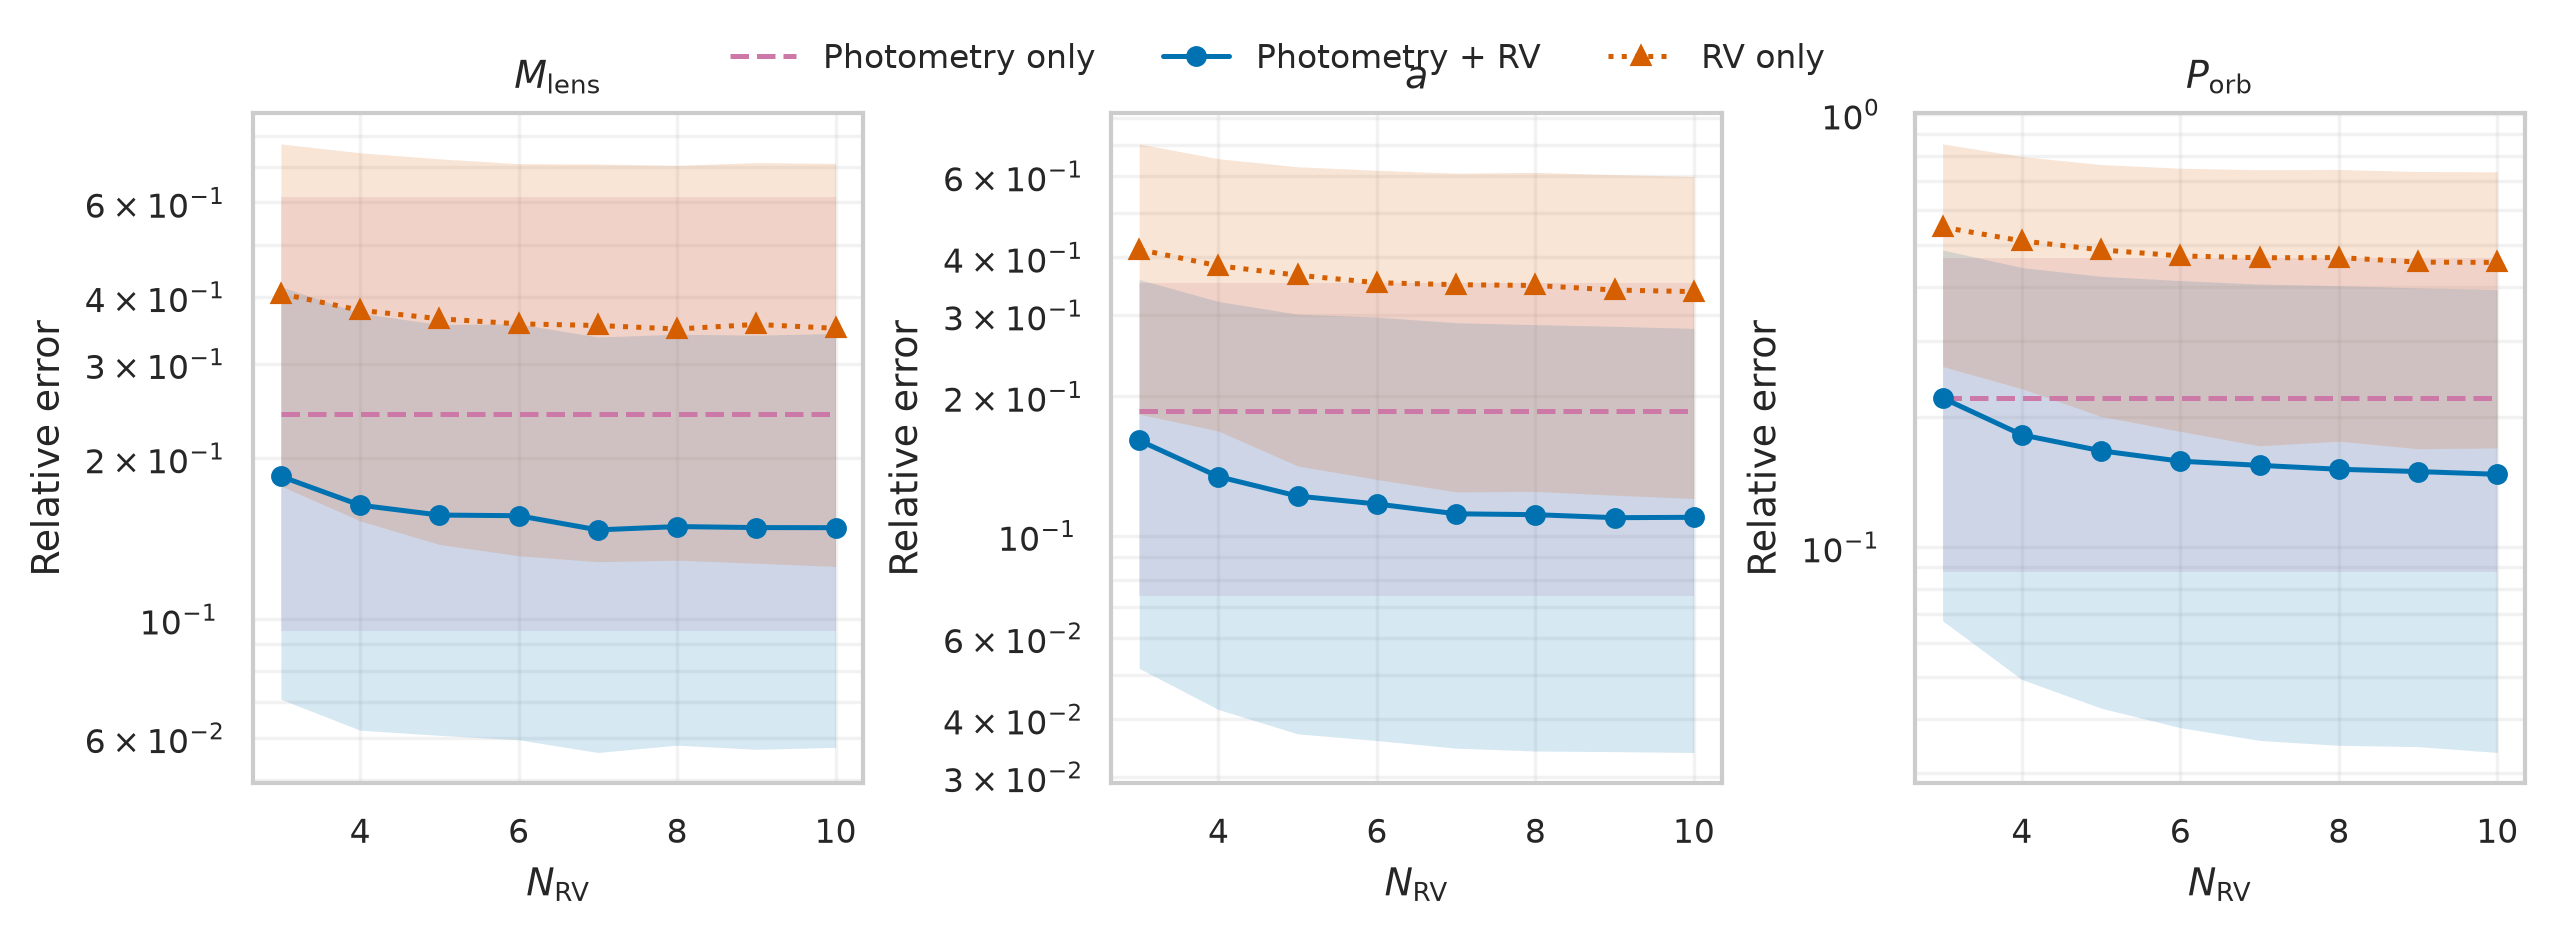
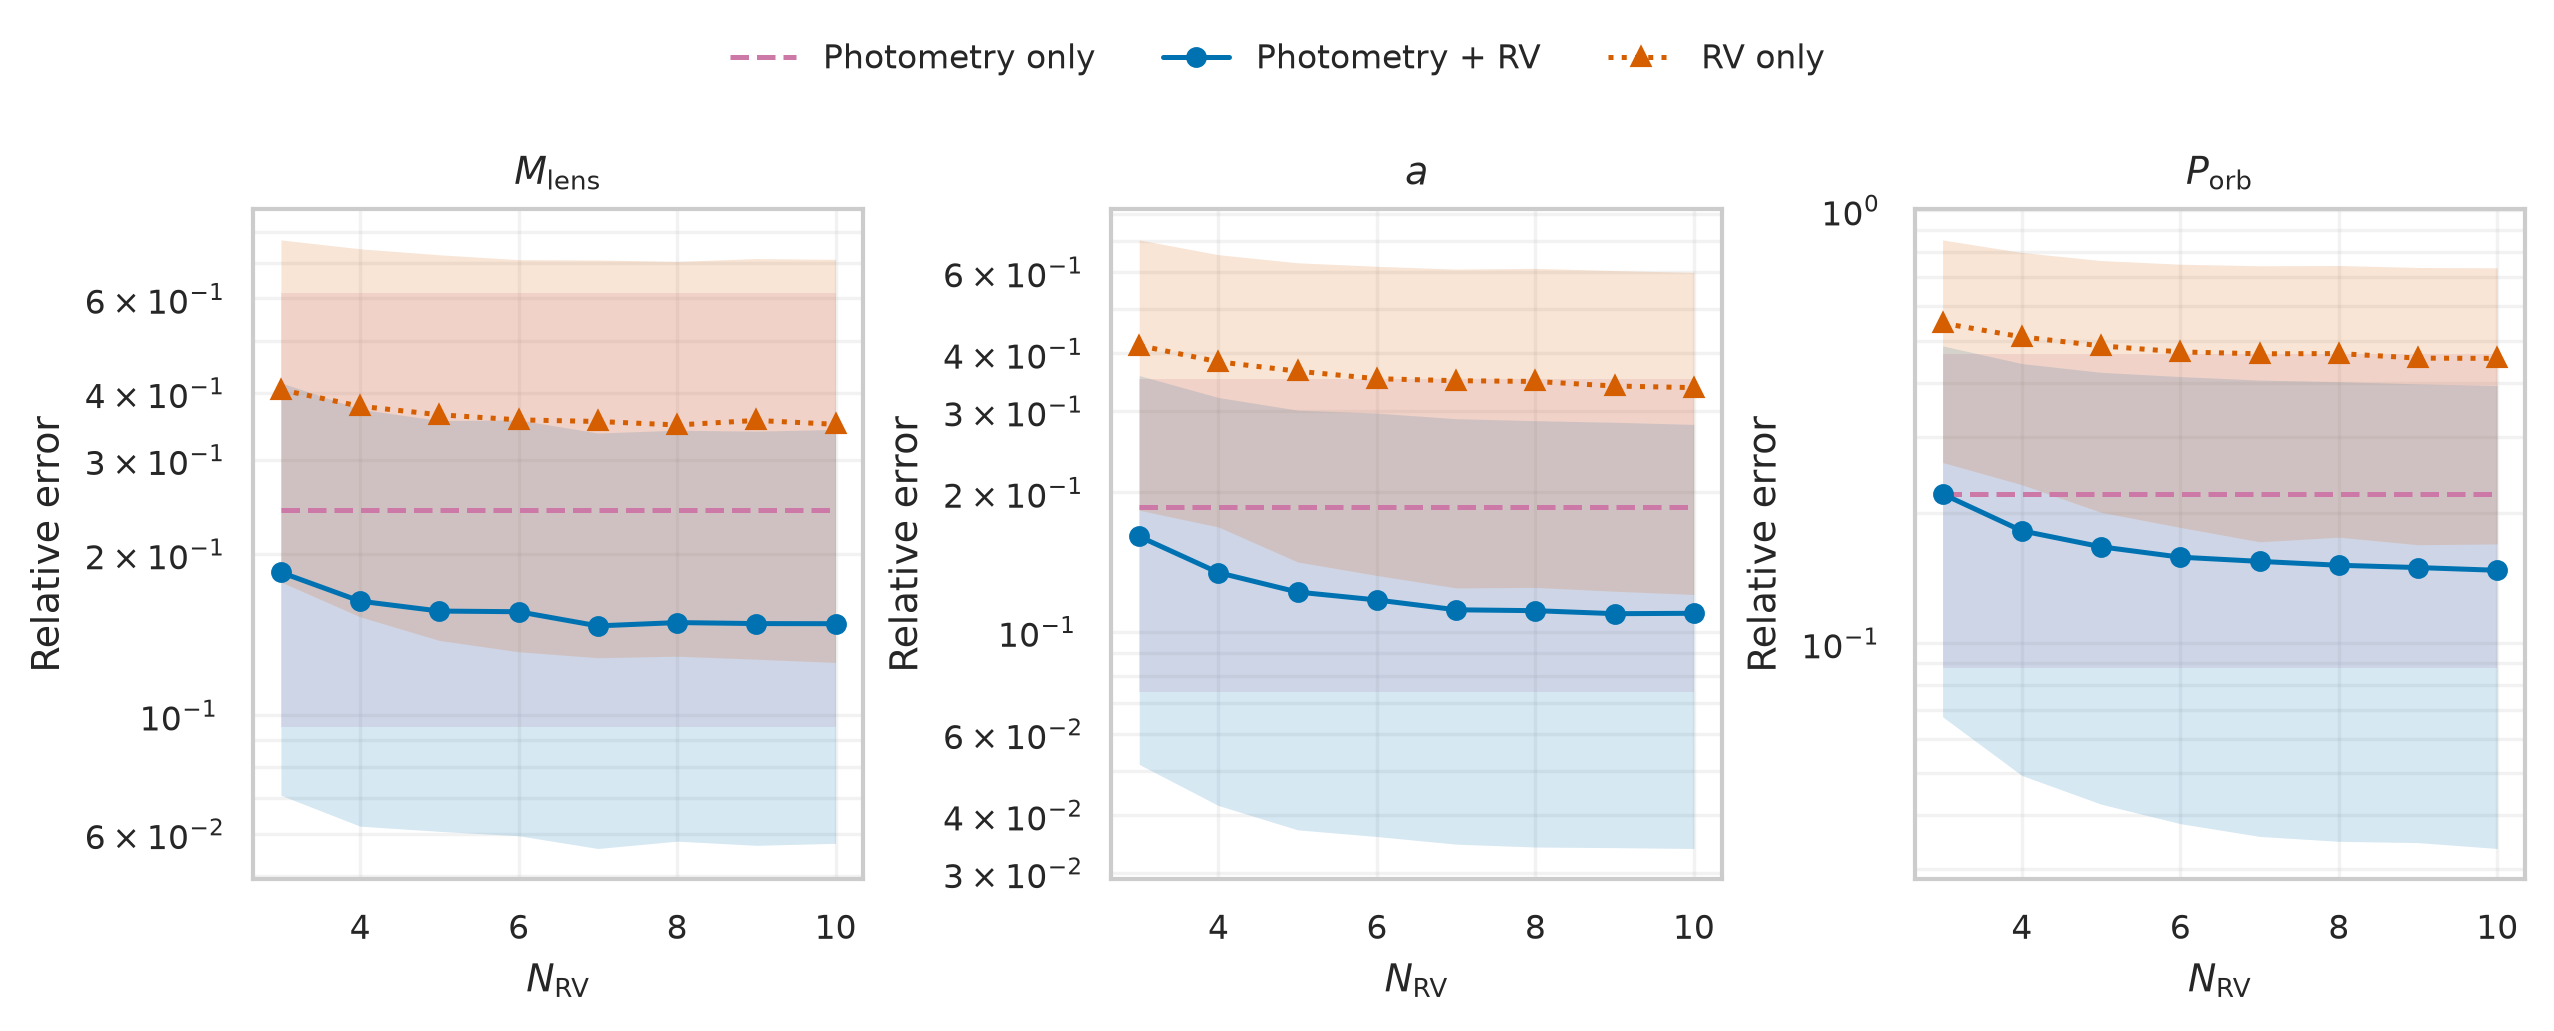
Figure updates

diff --git a/src/generate_paper_outputs.py b/src/generate_paper_outputs.py
@@ -909,7 +909,8 @@ def plot_prefit_improvement_by_n_rv(results):
         handles=legend_handles,
         loc="upper center",
         ncol=3,
-        bbox_to_anchor=(0.5, 1.04),
+        # Keep the shared legend clear of the three panel titles.
+        bbox_to_anchor=(0.5, 1.15),
         frameon=False,
     )
     for suffix in ("pdf", "png"):
